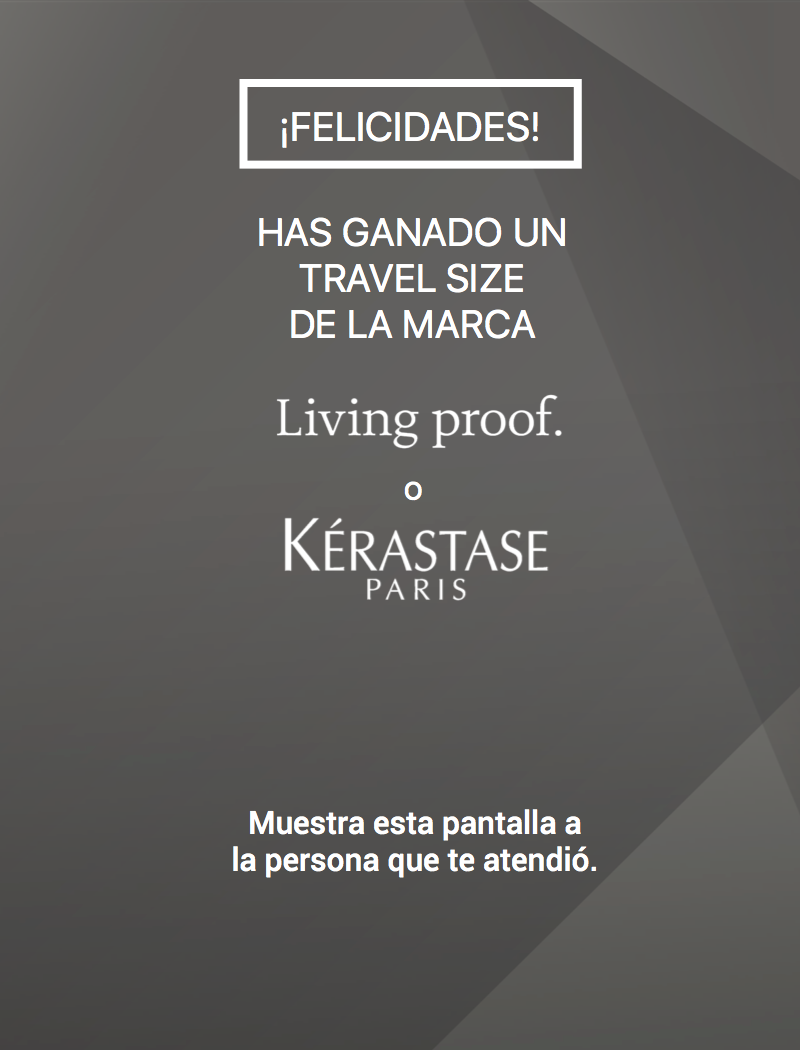
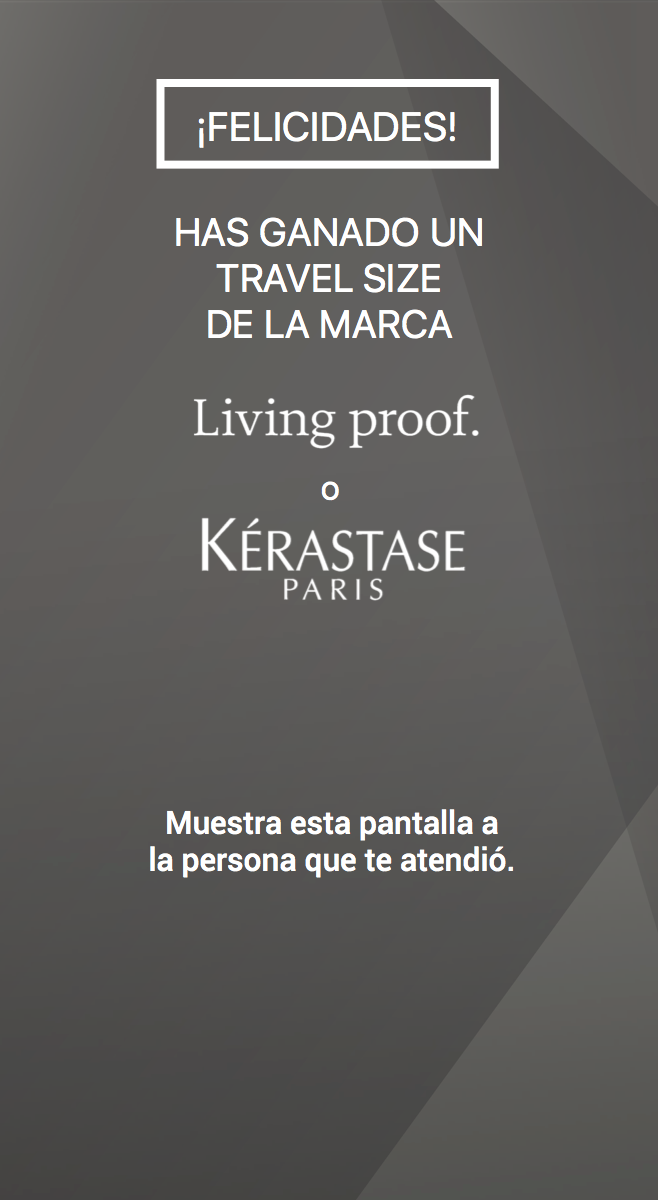
*

Changed region(s): [[0.2128, 0.061, 0.7599, 0.579], [0.2736, 0.7619, 0.7295, 0.8533], [0.2128, 0.6705, 0.7903, 0.7314]]

diff --git a/resources/html/final/classic.php b/resources/html/final/classic.php
@@ -8,11 +8,8 @@
 
     <body>
 
-	<div class="container-fluid blue" style="height: 100%; width: 100%">
-		<div class="container-fluid" style="height: 100%; width: 100%; background-color: <?php echo $_SESSION['site']['bgcolor'] ?>;">
-		<div class="div-wrapper full">
-			<img class="center-img success-img" src="media/clients/<?php echo $_SESSION['site']['dir'] ?>/success.png">
-		</div>
+	<div class="container-fluid" style="height: 100%; width: 100%">
+		<div id="upper-div" style="height: 75%; background-color: <?php echo $_SESSION['site']['bgcolor'] ?>; background-image: url(./media/clients/<?php echo $_SESSION['site']['dir'] ?>/like.png); background-repeat: no-repeat; background-position: center center; background-size: 100% auto;">
 		</div>
 	    <footer style="height: 25%; padding-top: 17.5vh;" style="background-color: <?php echo $_SESSION['site']['bgcolor'] ?>;">
 <!--		    <div class="btn-full-div">
